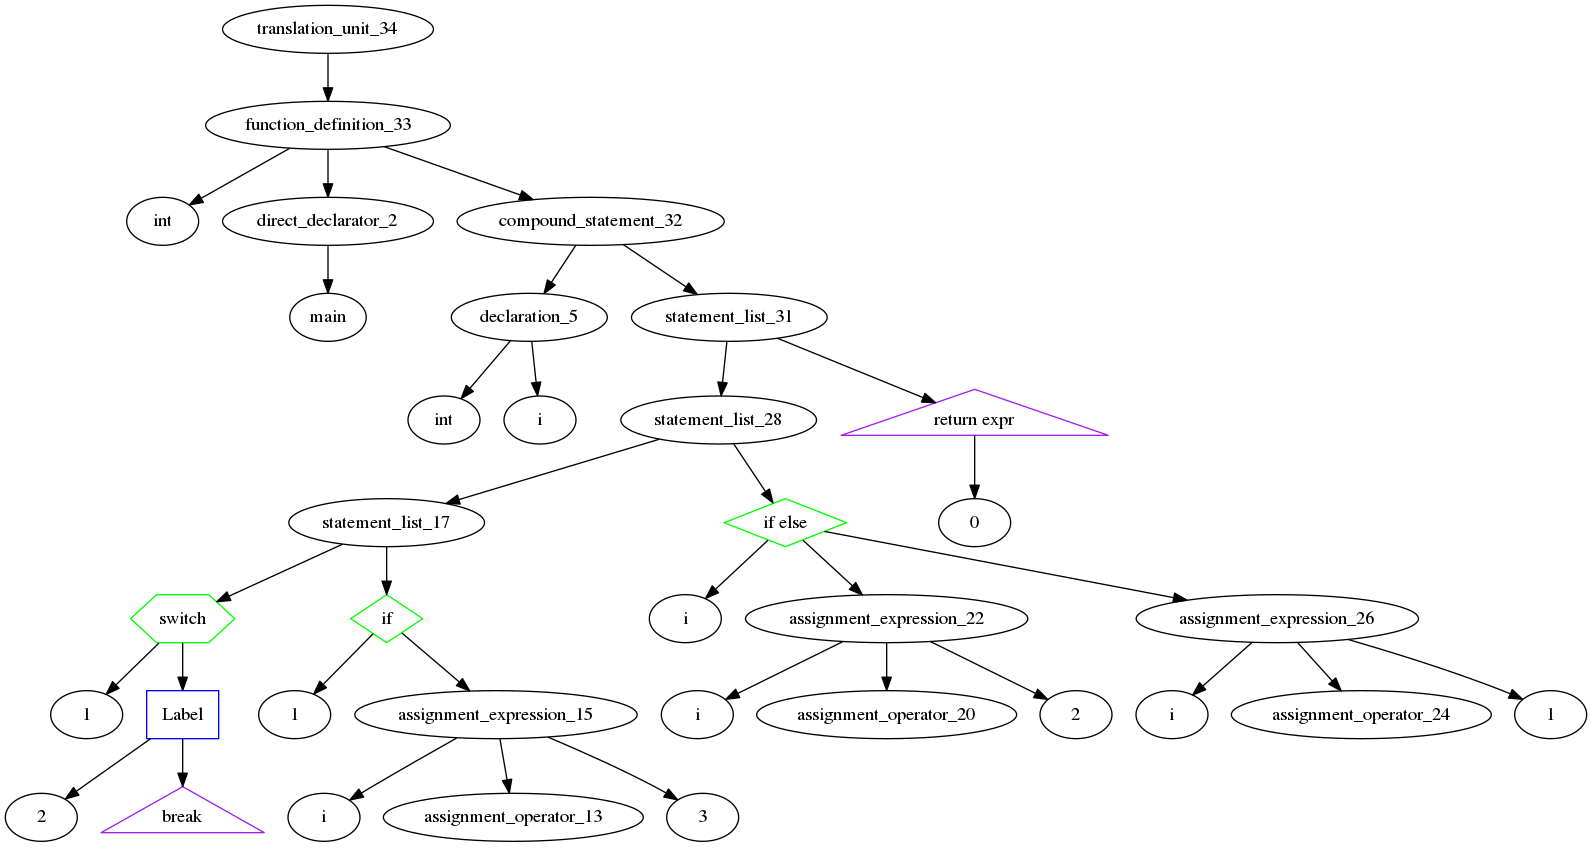
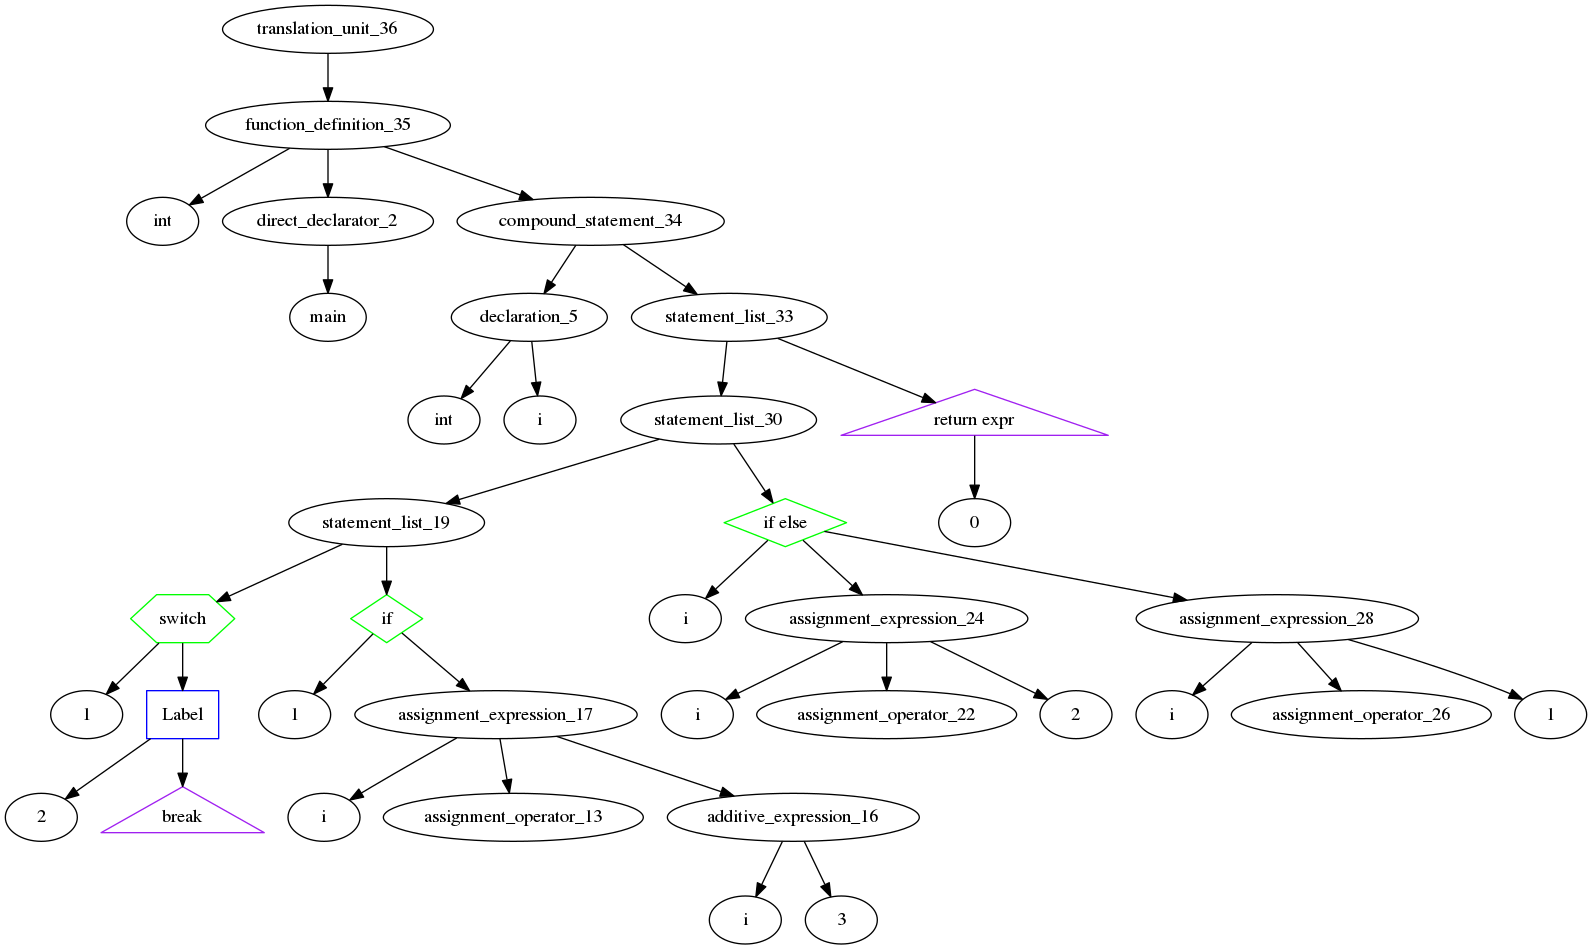
end of meeting

diff --git a/testCases/nodeClassTest.c b/testCases/nodeClassTest.c
@@ -8,7 +8,7 @@ int main()
 	}
 	if (1)
 	{
-		i = 3;
+		i = i + 3;
 	}
 	if(i)
 	{
